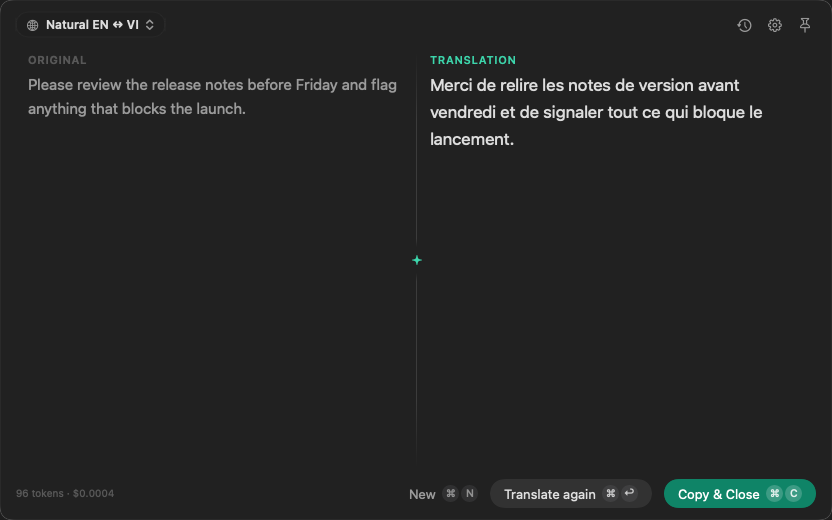
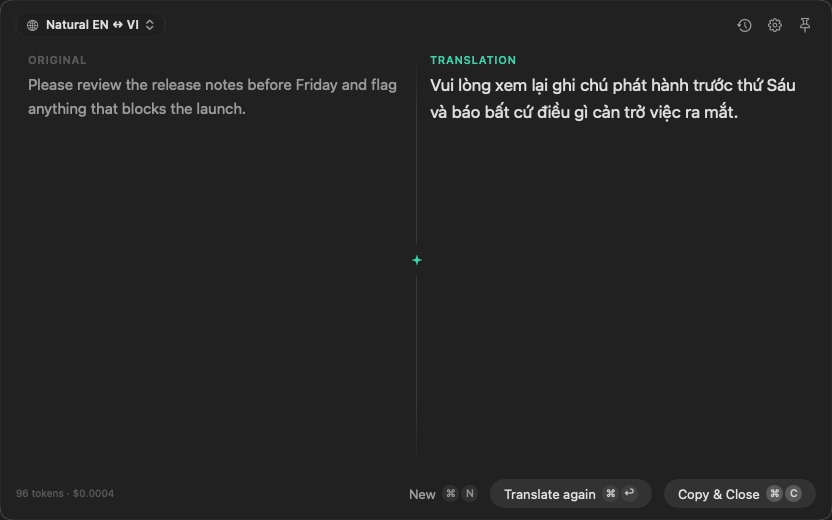
README screenshots match the app: Vietnamese sample text, and the Presets tab in place of History (#45)

Changed region(s): [[0.5, 0.1538, 0.9688, 0.2769], [0.7812, 0.9231, 1.0, 0.9846]]

diff --git a/README.md b/README.md
@@ -39,8 +39,8 @@ translation streams in right there. Your API keys stay in your Keychain.
 
 <div align="center">
 <picture>
-  <source media="(prefers-color-scheme: dark)" srcset="docs/images/history-dark.png">
-  <img src="docs/images/history-light.png" width="720" alt="The History window: a searchable list of past translations with model, tokens and cost">
+  <source media="(prefers-color-scheme: dark)" srcset="docs/images/presets-dark.png">
+  <img src="docs/images/presets-light.png" width="640" alt="Settings, Presets tab: each preset has a name, a provider, a model, instructions and shortcuts">
 </picture>
 </div>
 
